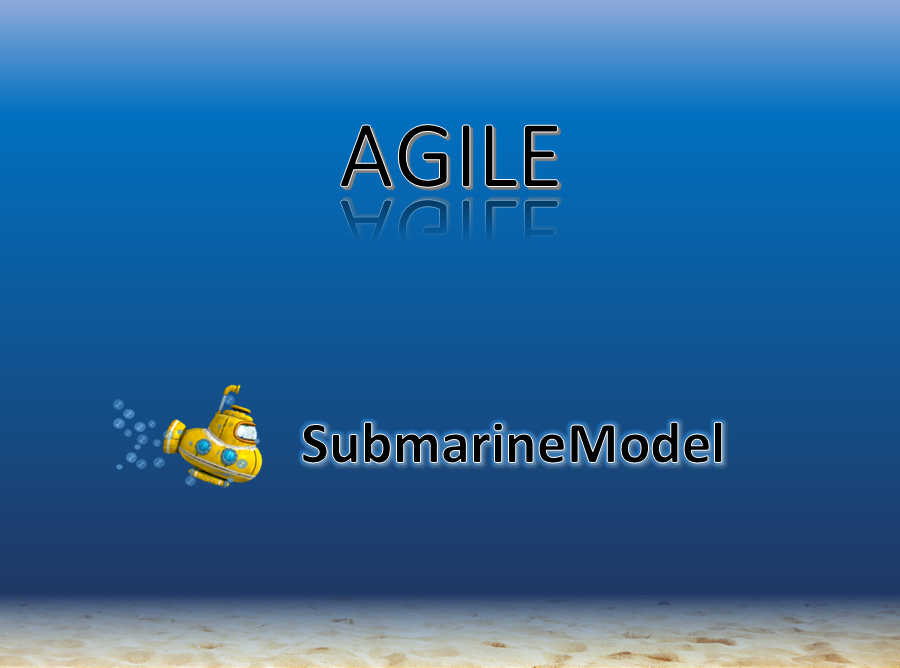
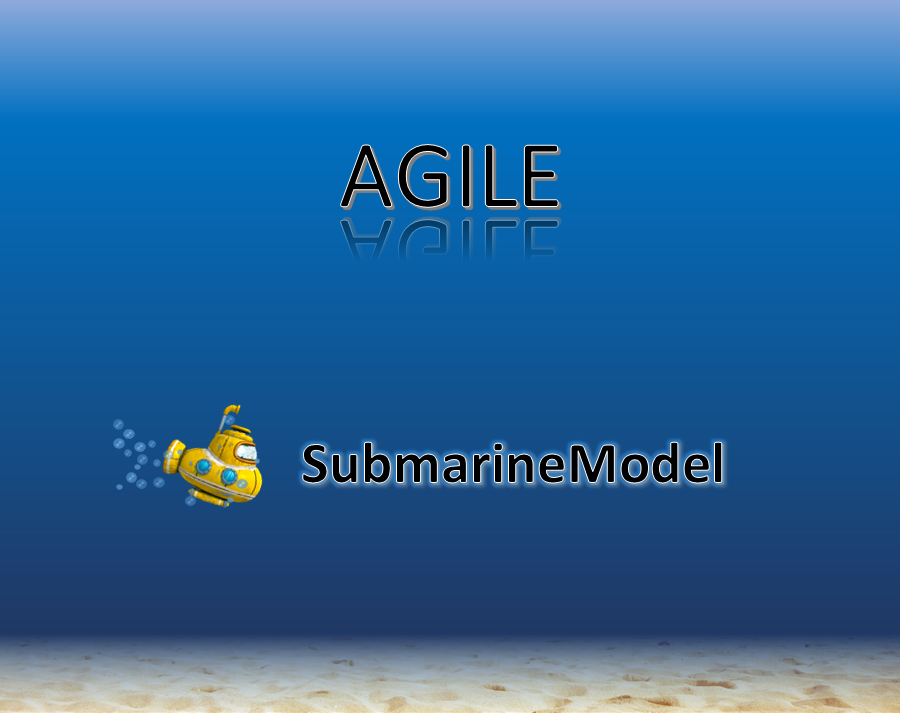
Mejoras submarineModel.

Changed region(s): [[0.1244, 0.5689, 0.8089, 0.7485], [0.3733, 0.1796, 0.6222, 0.3593]]

diff --git a/IS_TPF/src/main/java/headfirst/combined/djview/SubmarineView.java b/IS_TPF/src/main/java/headfirst/combined/djview/SubmarineView.java
@@ -10,6 +10,7 @@ import java.awt.event.ActionEvent;
 import java.awt.event.ActionListener;
 import java.awt.event.KeyEvent;
 import java.awt.event.KeyListener;
+import java.text.DecimalFormat;
 
 import javax.swing.ImageIcon;
 import javax.swing.JFrame;
@@ -29,7 +30,7 @@ public class SubmarineView extends JPanel implements KeyListener, Runnable,Actio
 	Graphics2D g2;
 	private Image Background;
 	private Image explosion;
-	private boolean dibujar, vivo, keyboard_on, pausar;
+	private boolean dibujar, vivo, keyboard_on, pausar, hundir;
 	private Image Oceano;
 	
 	private Image Submarino;
@@ -41,6 +42,7 @@ public class SubmarineView extends JPanel implements KeyListener, Runnable,Actio
 	JMenu menu;
     JMenuItem restartMenuItem;
     JMenuItem ayudaMenuItem;
+    private Timer bajar;
 	
 
 	public SubmarineView(ControllerInterface controller, SubmarineModelInterface model) {
@@ -52,7 +54,7 @@ public class SubmarineView extends JPanel implements KeyListener, Runnable,Actio
 		setFocusable(true);
 		Oceano = new ImageIcon("Imagenes/Background.gif").getImage();
 		Submarino = new ImageIcon("Imagenes/Submarino_fx.png").getImage();
-		contadorFondo = new ImageIcon("Imagenes/ContFondo2.png").getImage();
+		contadorFondo = new ImageIcon("Imagenes/ContFondo3.png").getImage();
 		inicial = new ImageIcon("Imagenes/Inicial.png").getImage();
 		this.addKeyListener(this);
 		dibujar = false;
@@ -64,16 +66,37 @@ public class SubmarineView extends JPanel implements KeyListener, Runnable,Actio
 		dibujar = false;
 		keyboard_on=true;
 		pausar = false;
+		hundir=true;
         
 
 	}
 	
 	public void run() {
 		
+		bajar = new Timer(10, new ActionListener(){
+			public void actionPerformed(ActionEvent e){						
+					model.setY(model.getY()+1);
+					model.setProfundidad(model.getProfundidad()+1.29);
+					Submarino = new ImageIcon("Imagenes/Submarino_fx_down.png").getImage();						
+			}
+		});
+		
 		while(model.getVivo()){
 		while (pausar==false)
-		{
-			repaint();			
+		{	
+			if(model.getSegundos()==10&&model.getCentesimas()==0 && hundir==true)
+			{
+				hundir=false;
+				bajar.start();				
+			}
+			if(model.getY()>=702 && model.getY()<712)
+			{
+				bajar.stop();
+				hundir=true;
+			}
+			
+			repaint();
+			
 		}
 		try {
 			Thread.sleep(500);
@@ -82,6 +105,11 @@ public class SubmarineView extends JPanel implements KeyListener, Runnable,Actio
 			e.printStackTrace();
 		}
 		}
+	}
+	
+	public void setSubmarinePos()
+	{
+		Submarino = new ImageIcon("Imagenes/Submarino_fx.png").getImage();
 	}
 	
 	public void setVisibleInicial(boolean b)
@@ -153,10 +181,14 @@ public class SubmarineView extends JPanel implements KeyListener, Runnable,Actio
 		g2 = (Graphics2D) g;
 		g2.drawImage(Oceano, 0, 0, null);		
 		g2.drawImage(Submarino, model.getX(), model.getY(), null);
-		g2.setFont(new Font("digital display tfb", Font.ITALIC, 75));
-		g2.setColor(Color.red.darker());
 		g2.drawImage(contadorFondo, 25, 10, null);
-		g2.drawString(""+model.getSegundos()+"."+model.getCentesimas(),40,77);
+		g2.setFont(new Font("digital display tfb", Font.ITALIC, 85));
+		g2.setColor(Color.red.darker());
+		g2.drawString(""+model.getSegundos()+"."+model.getCentesimas(),38,99);
+		g2.setFont(new Font("Arial narrow", Font.ITALIC, 75));
+		g2.setColor(Color.GRAY.darker());
+		DecimalFormat formato = new DecimalFormat("#.#");
+		g2.drawString("Profundidad: "+formato.format(model.getProfundidad())+"m",180,99);	
 		g2.drawImage(inicial, 0, 0, null);
 
 	}
@@ -172,12 +204,16 @@ public class SubmarineView extends JPanel implements KeyListener, Runnable,Actio
 			{			
 				int y= model.getY() - 2;
 				model.setY(y);
+				double p = model.getProfundidad()-2.58;
+				model.setProfundidad(p);
 				Submarino = new ImageIcon("Imagenes/Submarino_fx_up.png").getImage();
 			}
 			
 			if (c==KeyEvent.VK_DOWN&&model.getY()<570)
 			{
 				int y= model.getY() + 2;
+				double p = model.getProfundidad()+2.58;
+				model.setProfundidad(p);
 				model.setY(y);
 				Submarino = new ImageIcon("Imagenes/Submarino_fx_down.png").getImage();
 			}

diff --git a/IS_TPF/src/main/java/headfirst/combined/djview/SubmarineModel.java b/IS_TPF/src/main/java/headfirst/combined/djview/SubmarineModel.java
@@ -20,8 +20,9 @@ public class SubmarineModel implements SubmarineModelInterface, Runnable{
 	BeatModelInterface modelB;
 
 	private Timer timer, tiempo;
-	private boolean vivo, pausar, alarma, hundir, contar;
+	private boolean vivo, pausar, alarma, contar;
 	private int x, y, contador, segundos, centesimas, descargas;
+	private double profundidad;
 	
 	public SubmarineModel()
 	{
@@ -33,11 +34,12 @@ public class SubmarineModel implements SubmarineModelInterface, Runnable{
 		descargas =10;
 		pausar =false;
 		alarma=false;
-		hundir=false;
+		//hundir=false;
 		contar= true;
+		profundidad=0;
 		
 		x=0;
-		y=250;
+		y=190;
 		vivo=true;
 		
 	}
@@ -50,17 +52,11 @@ public class SubmarineModel implements SubmarineModelInterface, Runnable{
 		});
 		
 		while (vivo)
-		{
+		{		
 			while(pausar == false && contar==true){
 			if(y>500)
 			{
 				tiempo.start();
-				
-				if(centesimas==1&&hundir==true)
-				{
-					if(y<590){y = y + 20;}
-					hundir=false;
-				}
 				
 				if(segundos == 0 && centesimas==1 && alarma==false){
 					modelB.on();
@@ -81,10 +77,9 @@ public class SubmarineModel implements SubmarineModelInterface, Runnable{
 				if(segundos>=6 && (centesimas%2==0))
 				{
 					modelB.notifyBeatObservers();
-					if(segundos >=10){hundir= true;}
 				}
-				
-				if(hundir == true && y>=590 && segundos > 10)
+
+				if(y>700)
 				{
 					modelB.off();
 					modelB.initialize();
@@ -145,6 +140,16 @@ public class SubmarineModel implements SubmarineModelInterface, Runnable{
 	{
 		if(b == true){contar = true;}
 		else{contar = false;}
+	}
+	
+	public double getProfundidad()
+	{
+		return profundidad;
+	}
+	
+	public void setProfundidad(double p)
+	{
+		profundidad=p;
 	}
 	
 	public boolean getVivo(){return vivo;} 

diff --git a/IS_TPF/src/main/java/headfirst/combined/djview/SubmarineController.java b/IS_TPF/src/main/java/headfirst/combined/djview/SubmarineController.java
@@ -48,8 +48,10 @@ public class SubmarineController implements ControllerInterface{
 	public void start()
 	{
 		vistaS.setVisibleInicial(false);
+		vistaS.setSubmarinePos();
 		modelS.setX(0);
-		modelS.setY(250);
+		modelS.setY(190);
+		modelS.setProfundidad(0);
 		modelS.setContar(true);
 		view.disableStartMenuItem();
 		view.enableStopMenuItem();

diff --git a/IS_TPF/src/main/java/headfirst/combined/djview/SubmarineModelInterface.java b/IS_TPF/src/main/java/headfirst/combined/djview/SubmarineModelInterface.java
@@ -20,6 +20,10 @@ public interface SubmarineModelInterface {
 	
 	void setContar(boolean b);
 	
+	double getProfundidad();
+	
+	void setProfundidad(double p);
+	
 	boolean getVivo();
 	
 	void PasarBeatModel(BeatModelInterface modelB);

diff --git a/README.md b/README.md
@@ -18,3 +18,4 @@ Probamos nuevo sonido.
 Se corrige funciones de submarineModel y actualiza sonido.
 Se agrega funcion de hundir barco.
 Modificaciones Funciones submarineModel.
+Agregacion de efecto hundir submarine. y correcciones.
